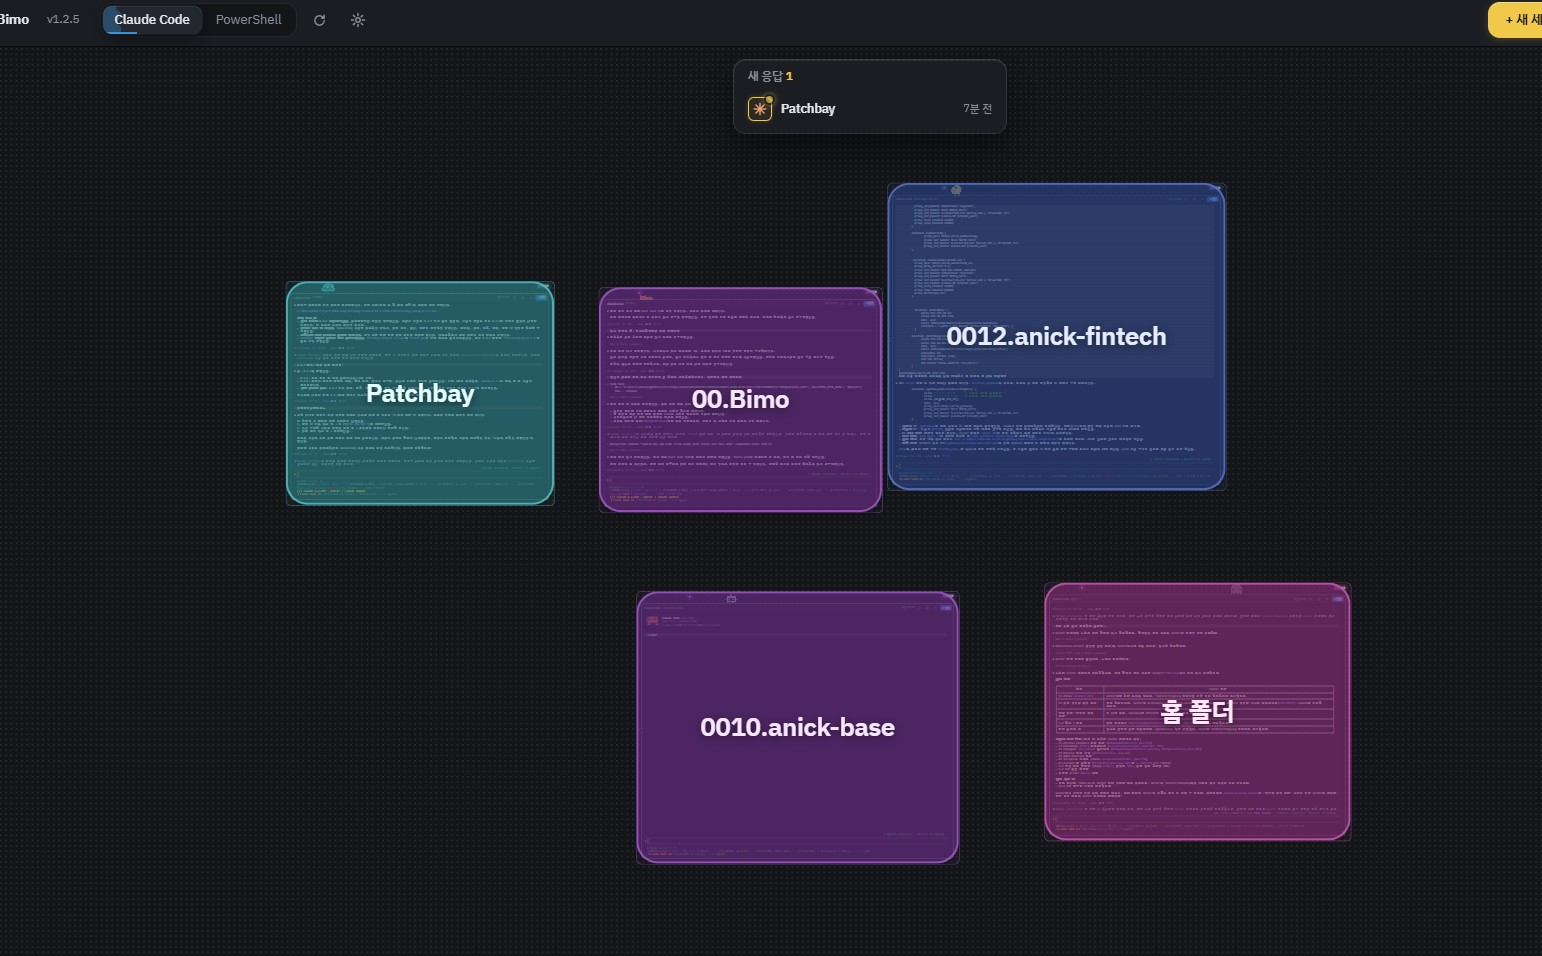
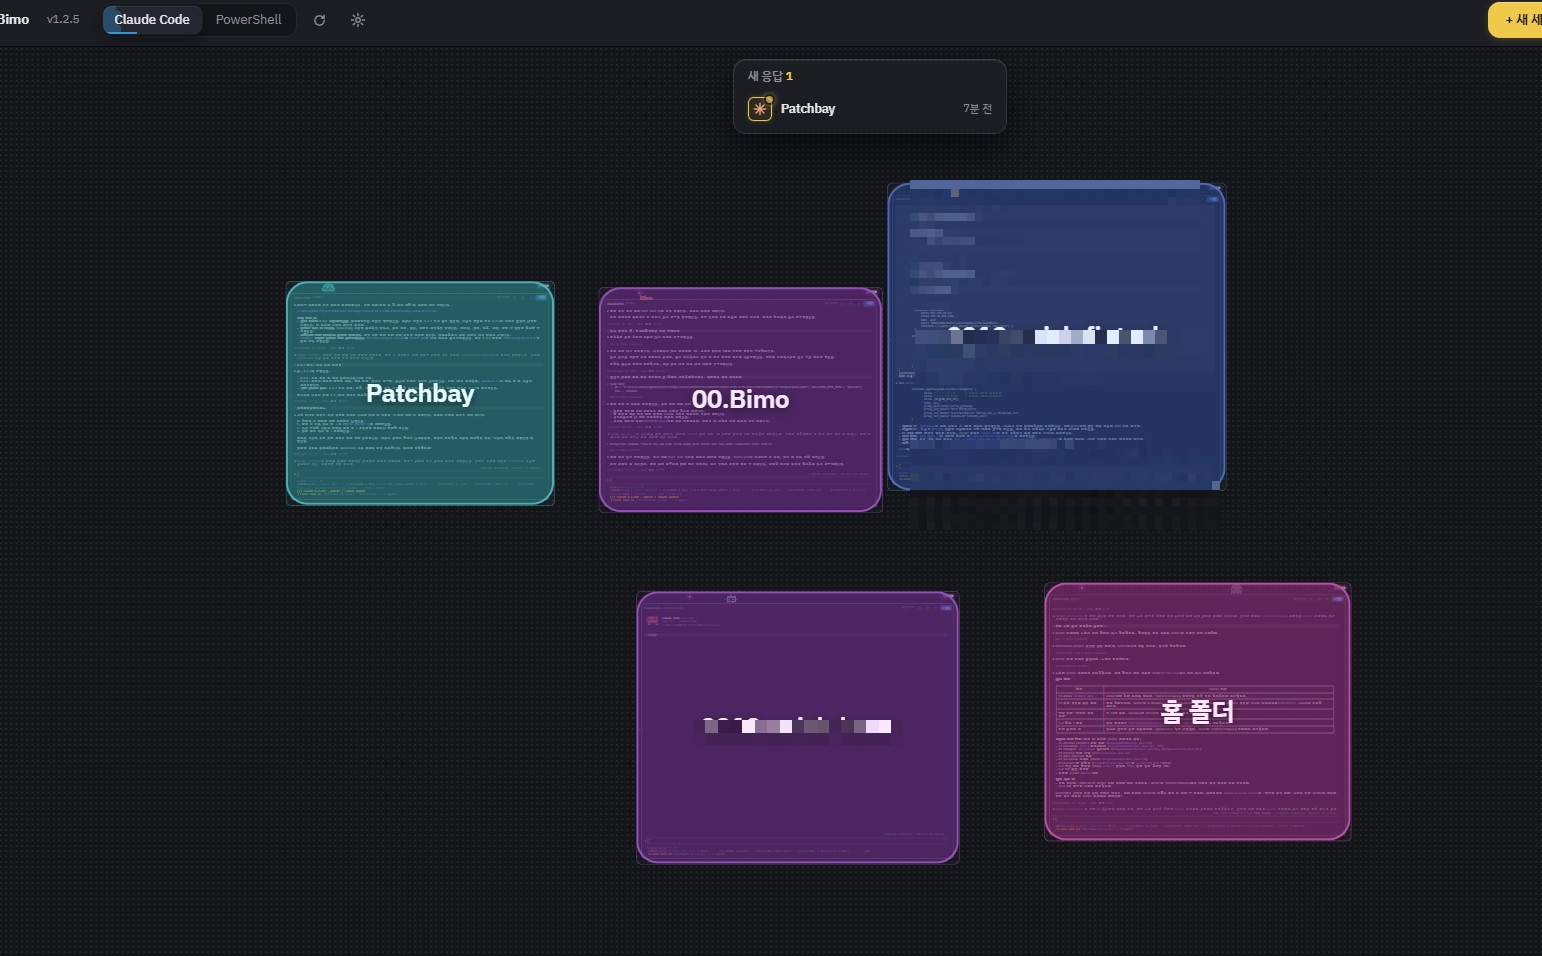
docs: 상태 이미지 내 프로젝트명 마스킹 및 영문 문서/다국어(i18n) 보강
- bimo-status.png 내 회사 프로젝트명 및 내부 텍스트 모자이크 마스킹 처리
- README.md 및 README.en.md 상단 언어 전환 링크 강조
- 다국어 지원(i18n, 한국어/English) 기능 설명 추가

diff --git a/README.en.md b/README.en.md
@@ -4,7 +4,9 @@
 
 <p align="center">A desktop app that lays out your AI coding CLI terminals on an infinite board to run them side by side</p>
 
-<p align="center"><a href="README.md">한국어</a> · English</p>
+<p align="center">
+  <a href="README.md">한국어</a> · <b>English</b>
+</p>
 
 <p align="center">
   <img src="docs/images/bimo-overview.png" width="850" alt="Bimo Board Overview">
@@ -36,6 +38,7 @@ Running Claude Code, Codex, and other AI CLIs across multiple projects quickly p
 
 - **AI CLI Auto-Detection** — Automatically discovers and lists only installed CLIs in the launcher:
   Claude Code · Codex · Gemini · Qwen Code · OpenCode · Aider · Cursor · Copilot · Amp (PowerShell is always available).
+- **Multilingual Support (i18n)** — Full out-of-the-box UI and notification support for both English and Korean.
 - **Resume Sessions** — Drag and drop an AI conversation log from another terminal onto the board to resume right where you left off.
 - **Project Sidebar** — Group sessions by project folder, assign color tags, and launch directly on specific git branches.
 - **Quick Send (Broadcast)** — Type `@session-name task` to dispatch input directly to any session (`Ctrl+K`).

diff --git a/README.md b/README.md
@@ -4,7 +4,9 @@
 
 <p align="center">AI 코딩 CLI 터미널을 한 보드 위에 펼쳐 두고 같이 굴리는 데스크톱 앱</p>
 
-<p align="center">한국어 · <a href="README.en.md">English</a></p>
+<p align="center">
+  <b>한국어</b> · <a href="README.en.md">English</a>
+</p>
 
 <p align="center">
   <img src="docs/images/bimo-overview.png" width="850" alt="Bimo 보드 메인 화면">
@@ -36,6 +38,7 @@
 
 - **AI CLI 자동 감지** — 설치된 CLI 만 런처에 노출.
   Claude Code · Codex · Gemini · Qwen Code · OpenCode · Aider · Cursor · Copilot · Amp (PowerShell 은 항상 지원)
+- **다국어 지원 (i18n)** — 앱 전체 UI 및 알림에 한국어와 영어(English) 완벽 지원.
 - **세션 이어 열기** — 다른 터미널에서 진행하던 AI 대화를 보드로 끌어다 놓으면 즉시 이어서 실행.
 - **프로젝트 사이드바** — 폴더별 세션 그룹화, 프로젝트별 색상 지정, Git 브랜치 지정 실행.
 - **빠른 전송 (Broadcast)** — `@세션이름 할 일` 로 원하는 세션에 즉시 입력 전달 (`Ctrl+K`).
